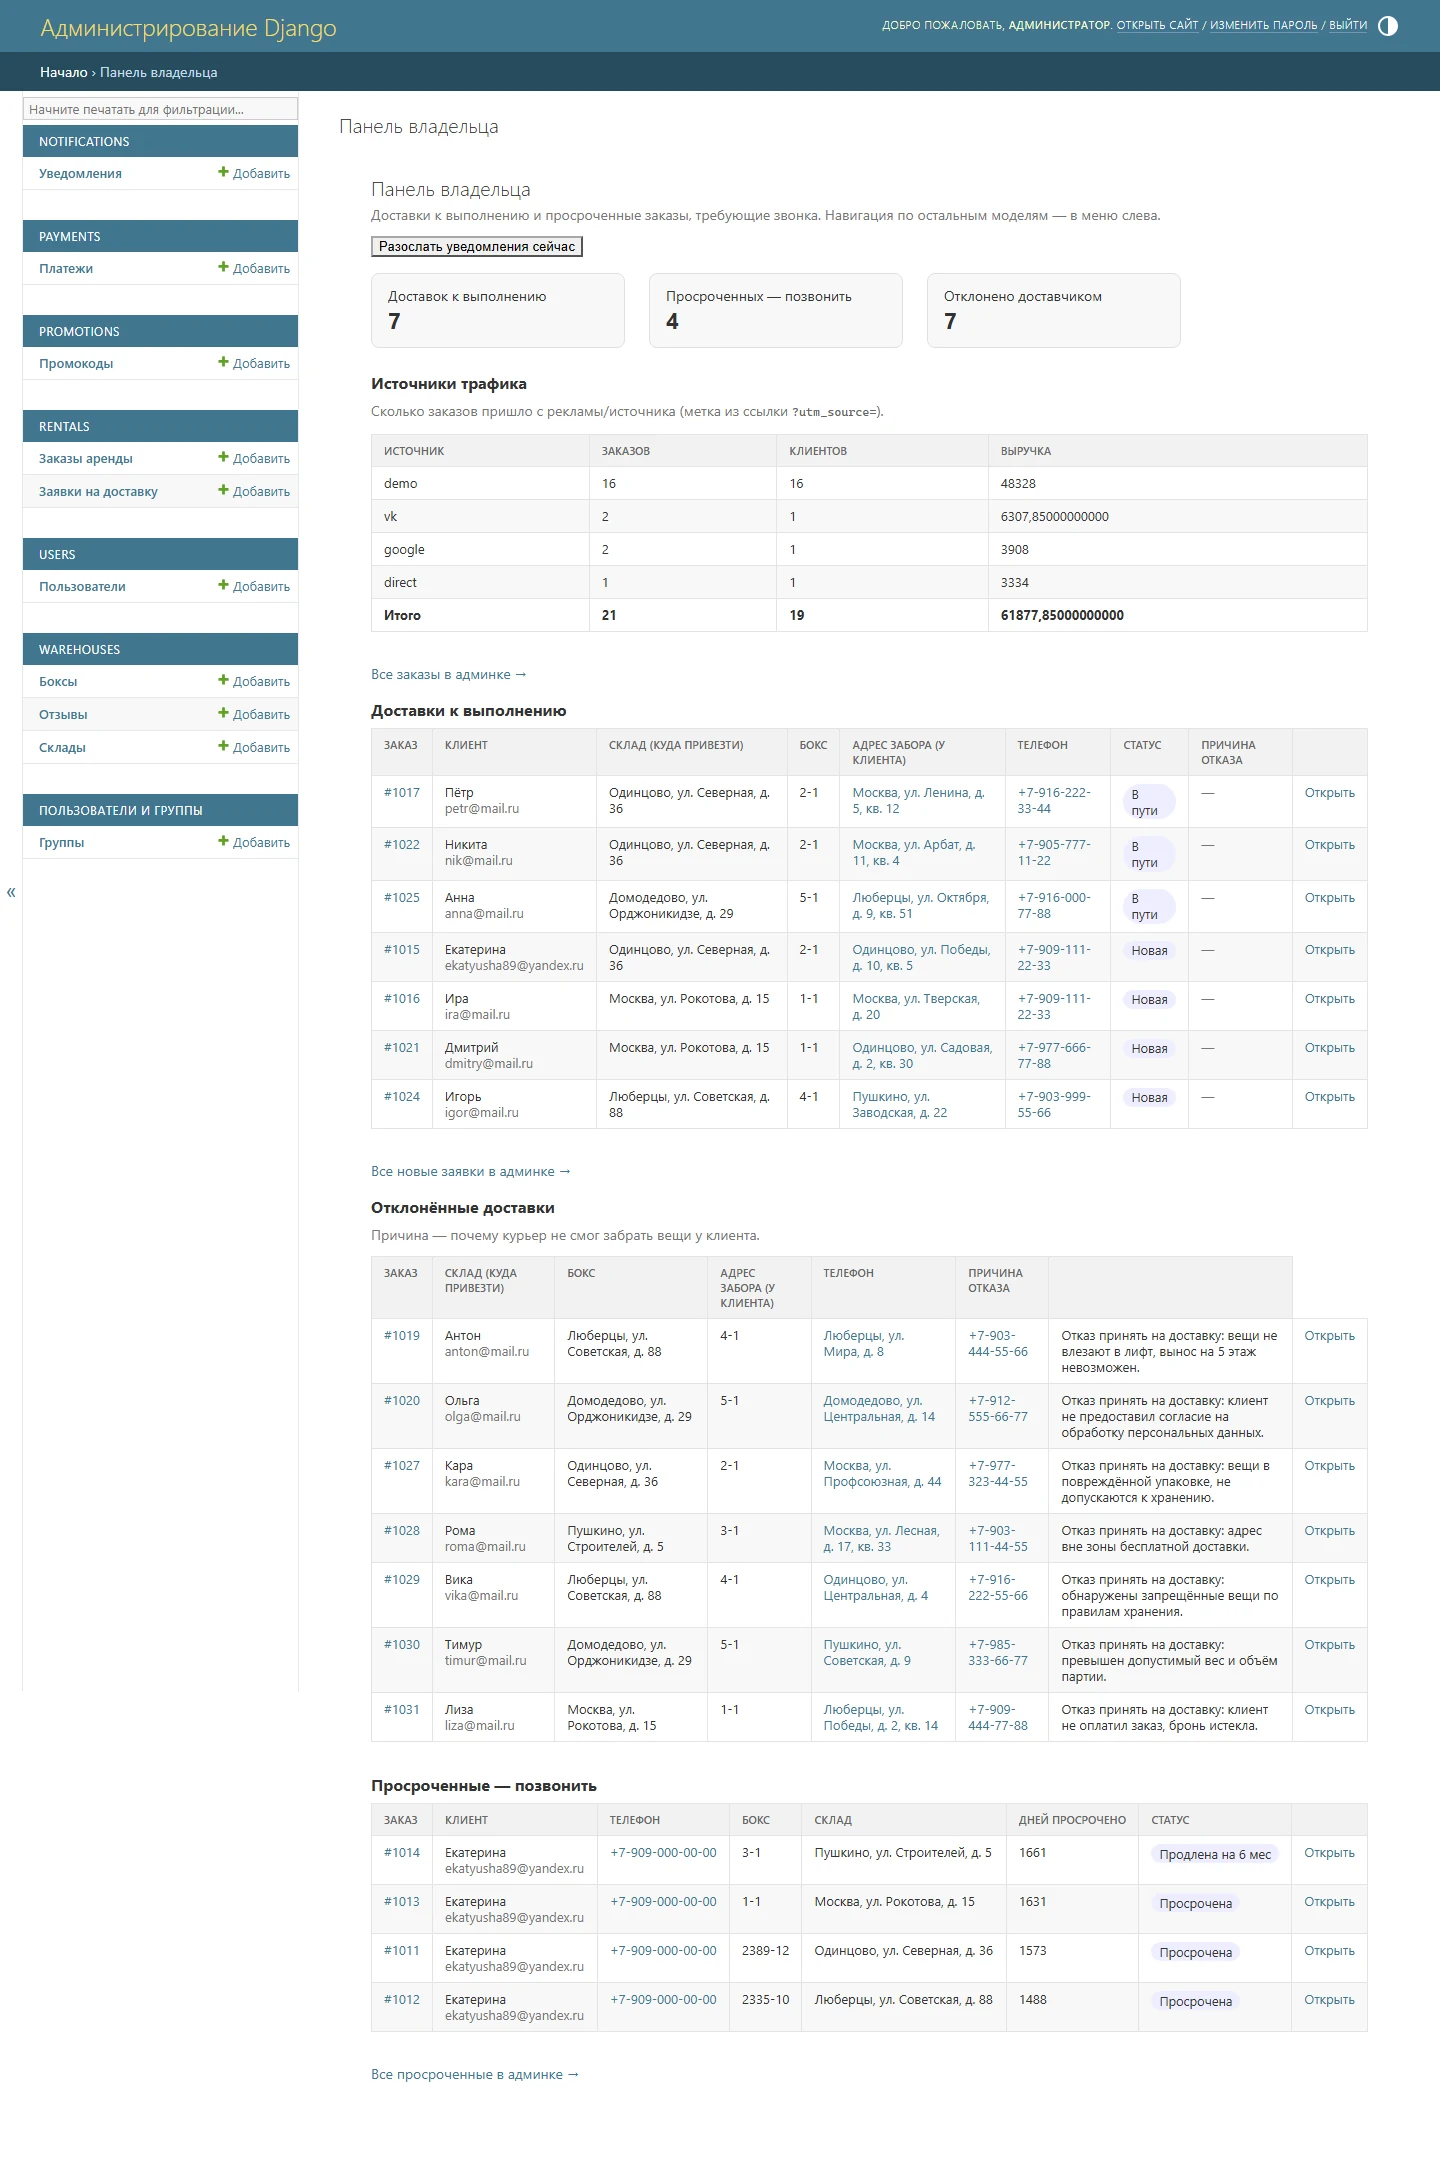
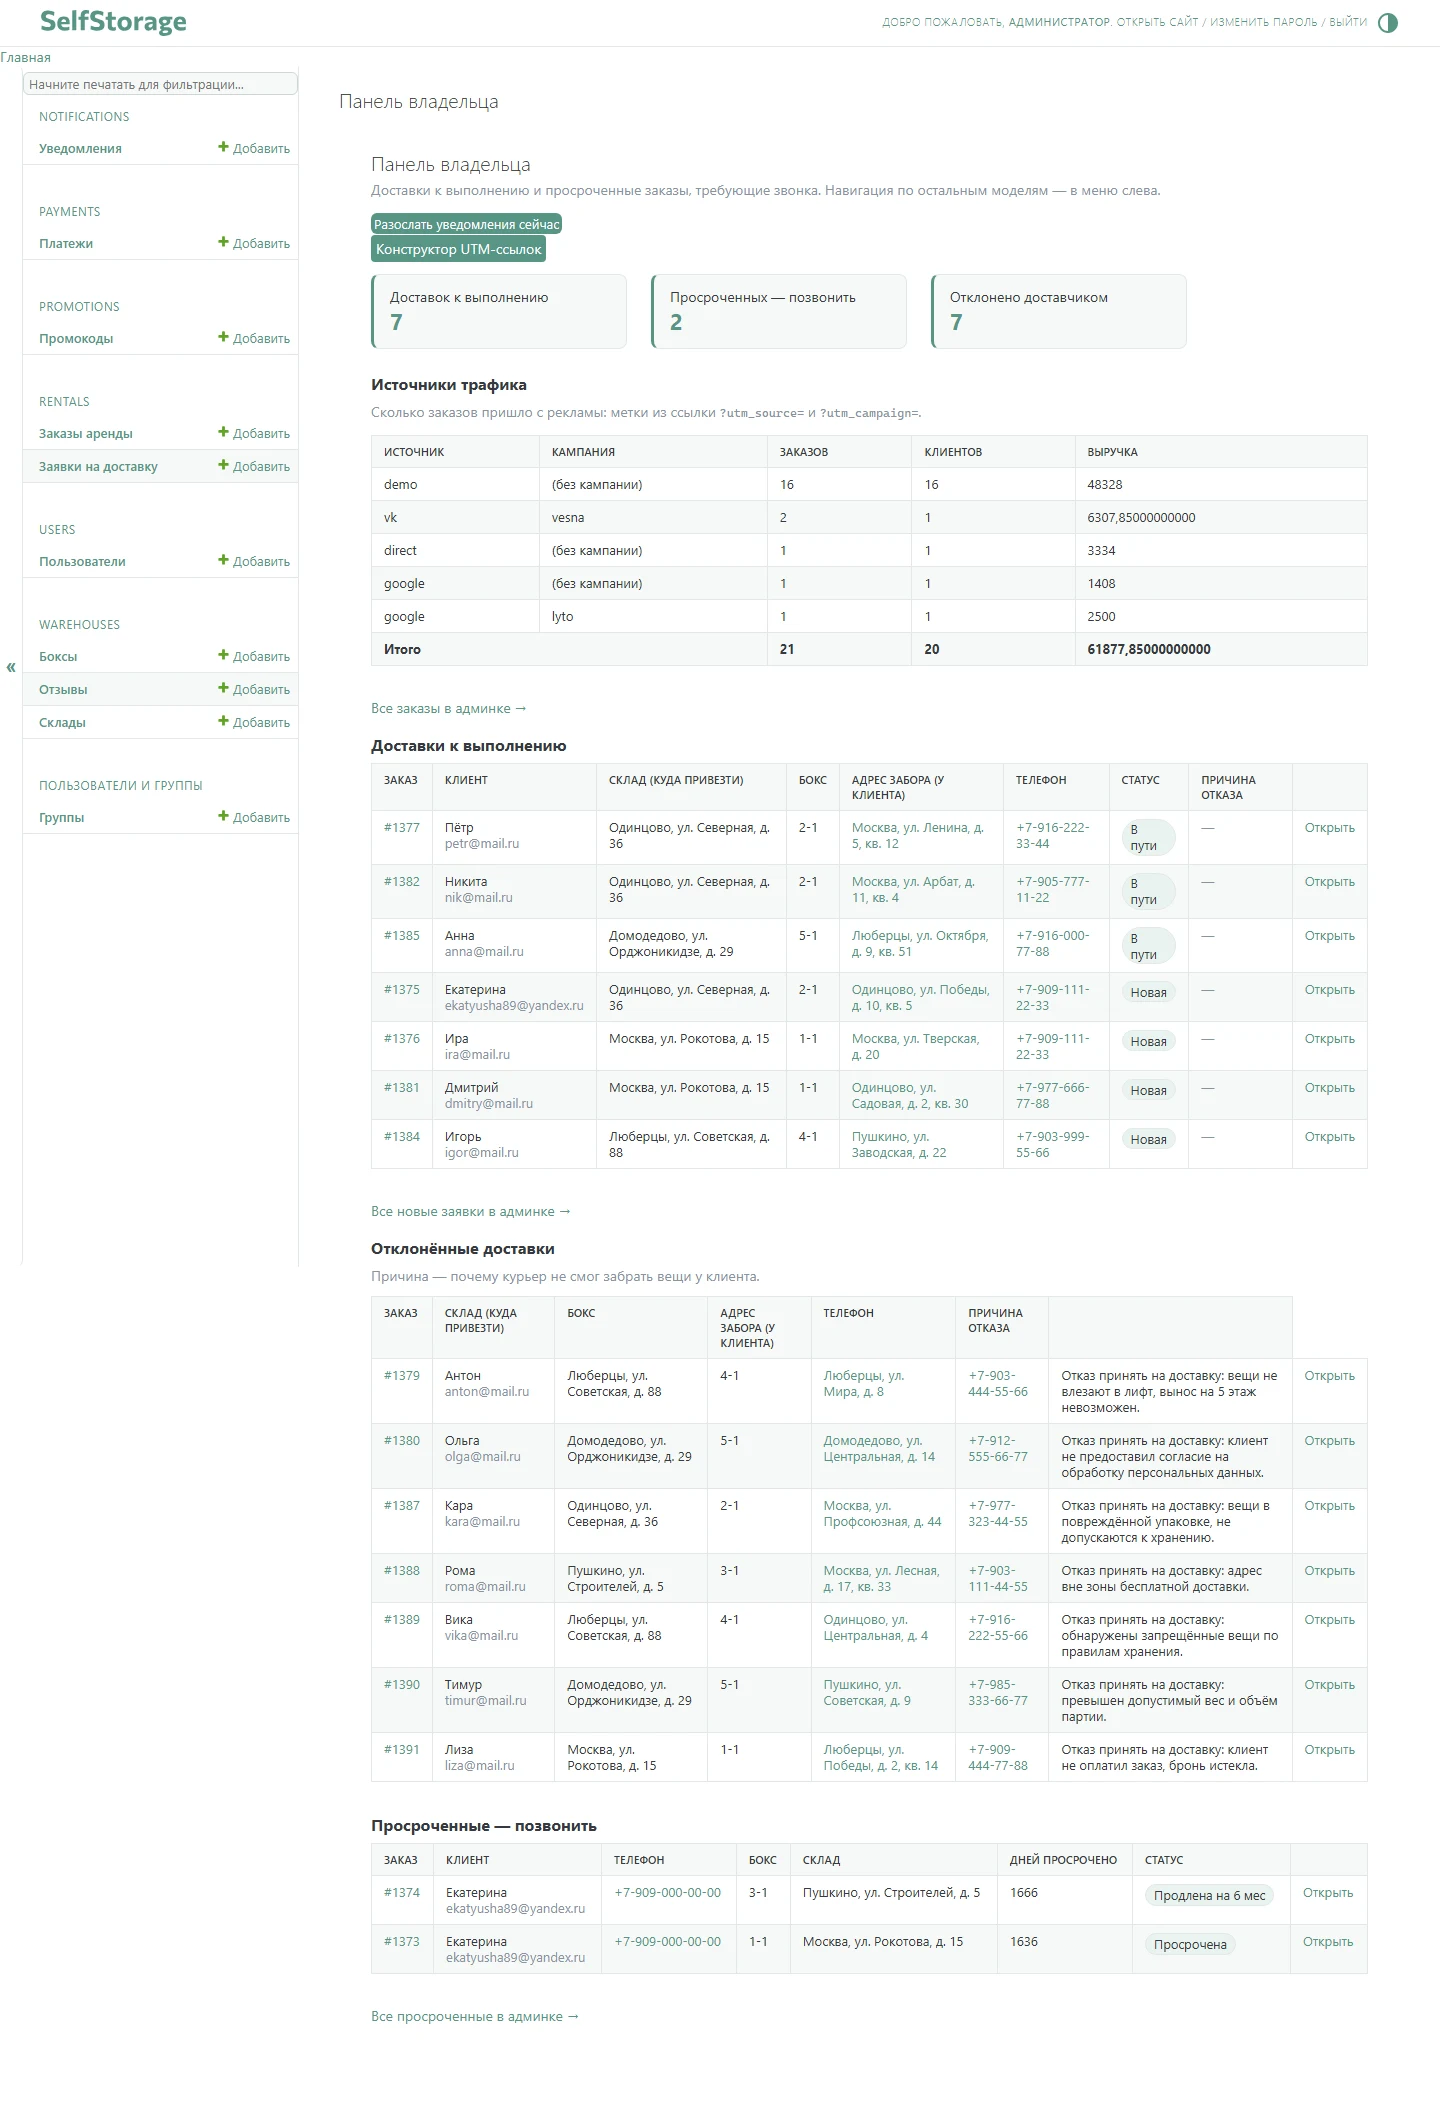
docs(readme): обновить скриншоты и описание новых функций
В README дополнены: отзывы на главной (форма + модерация), профиль с аватаром, конструктор UTM-ссылок, атрибуция кампаний в дашборде, модерация отзывов, фирменная тема админки. Заменён скриншот дашборда владельца (теперь с фирменной темой, колонкой «Кампания» и кнопкой конструктора UTM), добавлен скриншот конструктора UTM. Обновлён alt-текст дашборда, описан config с конструктором в структуре проекта.

diff --git a/README.md b/README.md
@@ -26,14 +26,18 @@
 - промокоды со сроком действия и расчёт стоимости аренды;
 - оплата через ЮKassa: редирект на оплату, возврат по `return_url` и webhook о смене статуса;
 - QR-код для открытия бокса, личный кабинет с активными арендами и историей платежей;
+- профиль в кабинете: смена имени и загрузка аватара;
 - **уведомления в кабинете** (колокольчик со счётчиком непрочитанных, список уведомлений);
+- отзывы о сервисе: форма с фото на главной, публикация после модерации;
 - письма: приветственное, «оплата получена», напоминания об окончании аренды (за 30/14/7/3 дня) и о просрочке;
 - регистрация, вход и восстановление пароля — и в модальных окнах, и на отдельных страницах.
 
 **Владелец и администратор**
 
-- кастомный дашборд владельца: занятость боксов, заказы, выручка, заявки на доставку, ссылки на адреса в Яндекс.Картах;
-- управление складами, боксами, заказами, промокодами и платежами в Django Admin;
+- кастомный дашборд владельца: занятость боксов, заказы, выручка, заявки на доставку, источники трафика и рекламные кампании, ссылки на адреса в Яндекс.Картах;
+- конструктор UTM-ссылок в админке: `utm_source`, `utm_medium`, `utm_campaign` собираются в готовую рекламную ссылку;
+- управление складами, боксами, заказами, промокодами и платежами в Django Admin в фирменной теме;
+- модерация отзывов: публикация и снятие с публикации;
 - ручной запуск рассылки уведомлений из админки.
 
 ## Стек технологий
@@ -62,7 +66,9 @@
 
 ![Вход](docs/img/login.webp)
 
-![Панель владельца — дашборд заказов, выручки и заявок на доставку](docs/img/owner_dashboard.webp)
+![Панель владельца — дашборд заказов, выручки, заявок на доставку и источников трафика](docs/img/owner_dashboard.webp)
+
+![Конструктор UTM-ссылок в админке](docs/img/utm_builder.webp)
 
 ## Как запустить
 
@@ -116,7 +122,7 @@ uv run pre-commit run --all-files
 
 ```
 apps/        Django-приложения: users, warehouses, rentals, promotions, payments, notifications
-config/      настройки, роутинг, базовые шаблоны, дашборд владельца
+config/      настройки, роутинг, базовые шаблоны, дашборд владельца и конструктор UTM-ссылок
 docs/        деплой, UTM-метки, QR-доступ, уведомления
 scripts/     bootstrap окружения (PowerShell и sh)
 static/      исходные CSS и изображения

diff --git a/docs/TODO.md b/docs/TODO.md
@@ -74,4 +74,5 @@
 - `ec891b6` — **атрибуция кампаний**: `utm_campaign` из конструктора никуда не попадал — в отчёте видны только площадки, не акции. Middleware сохраняет кампанию в сессию, визард пишет в новое поле `RentalOrder.traffic_campaign` (миграция `0007`), фильтр/колонка в админке заказов, карточка «Источники трафика» → `Источник | Кампания | Заказов | Клиентов | Выручка` (пустые — `(без метки)`/`(без кампании)`), `seed_demo` с кампаниями `vesna`/`lyto`. +3 теста. Проверки: 131 тест OK, ruff/mypy/pyright чистые.
 - `f0ee3e7` — **фикс: пресет визарда в конструкторе вёл на 404** — `TARGET_CHOICES` содержал `/rentals/wizard/`, а визард живёт под `/orders/wizard/` (prefix `orders/`); исправлен там и в примере `docs/utm.md`. +1 регрессионный тест. Проверки: 132 теста OK, ruff/mypy/pyright чистые. Живой смоук UTM-флоу целиком: конструктор → ссылка → заказ тест-пользователя с `?utm_source=smoke&utm_campaign=smoke_live` → строка `smoke | smoke_live | 1 заказ | 3334 ₽` на дашборде, фильтр по кампании в админке нашёл заказ; уборка — юзера удалил (каскад), бокс вернул в `free`, дашборд чист.
 - `7e35fe7` — **фикс: в шапке админки двойной логотип** — branding в `admin/base_site.html` рисовал SVG-логотип (в нём уже есть надпись SelfStorage) и рядом ещё текстовый SelfStorage — на страницах админки читалось двойное «SelfStorage SelfStorage» (дефект из этапа фирменной темы, увиден на новом скриншоте дашборда). Оставлен только логотип с `alt="SelfStorage"` — как в публичной шапке и футере; в тест темы добавлен регресс на дубль. Проверки: 132 теста OK, ruff/mypy/pyright чистые.
+- `1c926d6` — **фикс: шум float в выручке дашборда владельца** — `Sum` по `DecimalField` на SQLite давал `6307.85000000000`; в `owner_dashboard` округляем выручку до копеек. +1 регресс-тест. Проверки: 133 теста OK, ruff/mypy/pyright чистые.
 - Закрыто ранее: `seed_demo` на стенде — осознанное поведение витрины, описано в `docs/deployment.md`.
